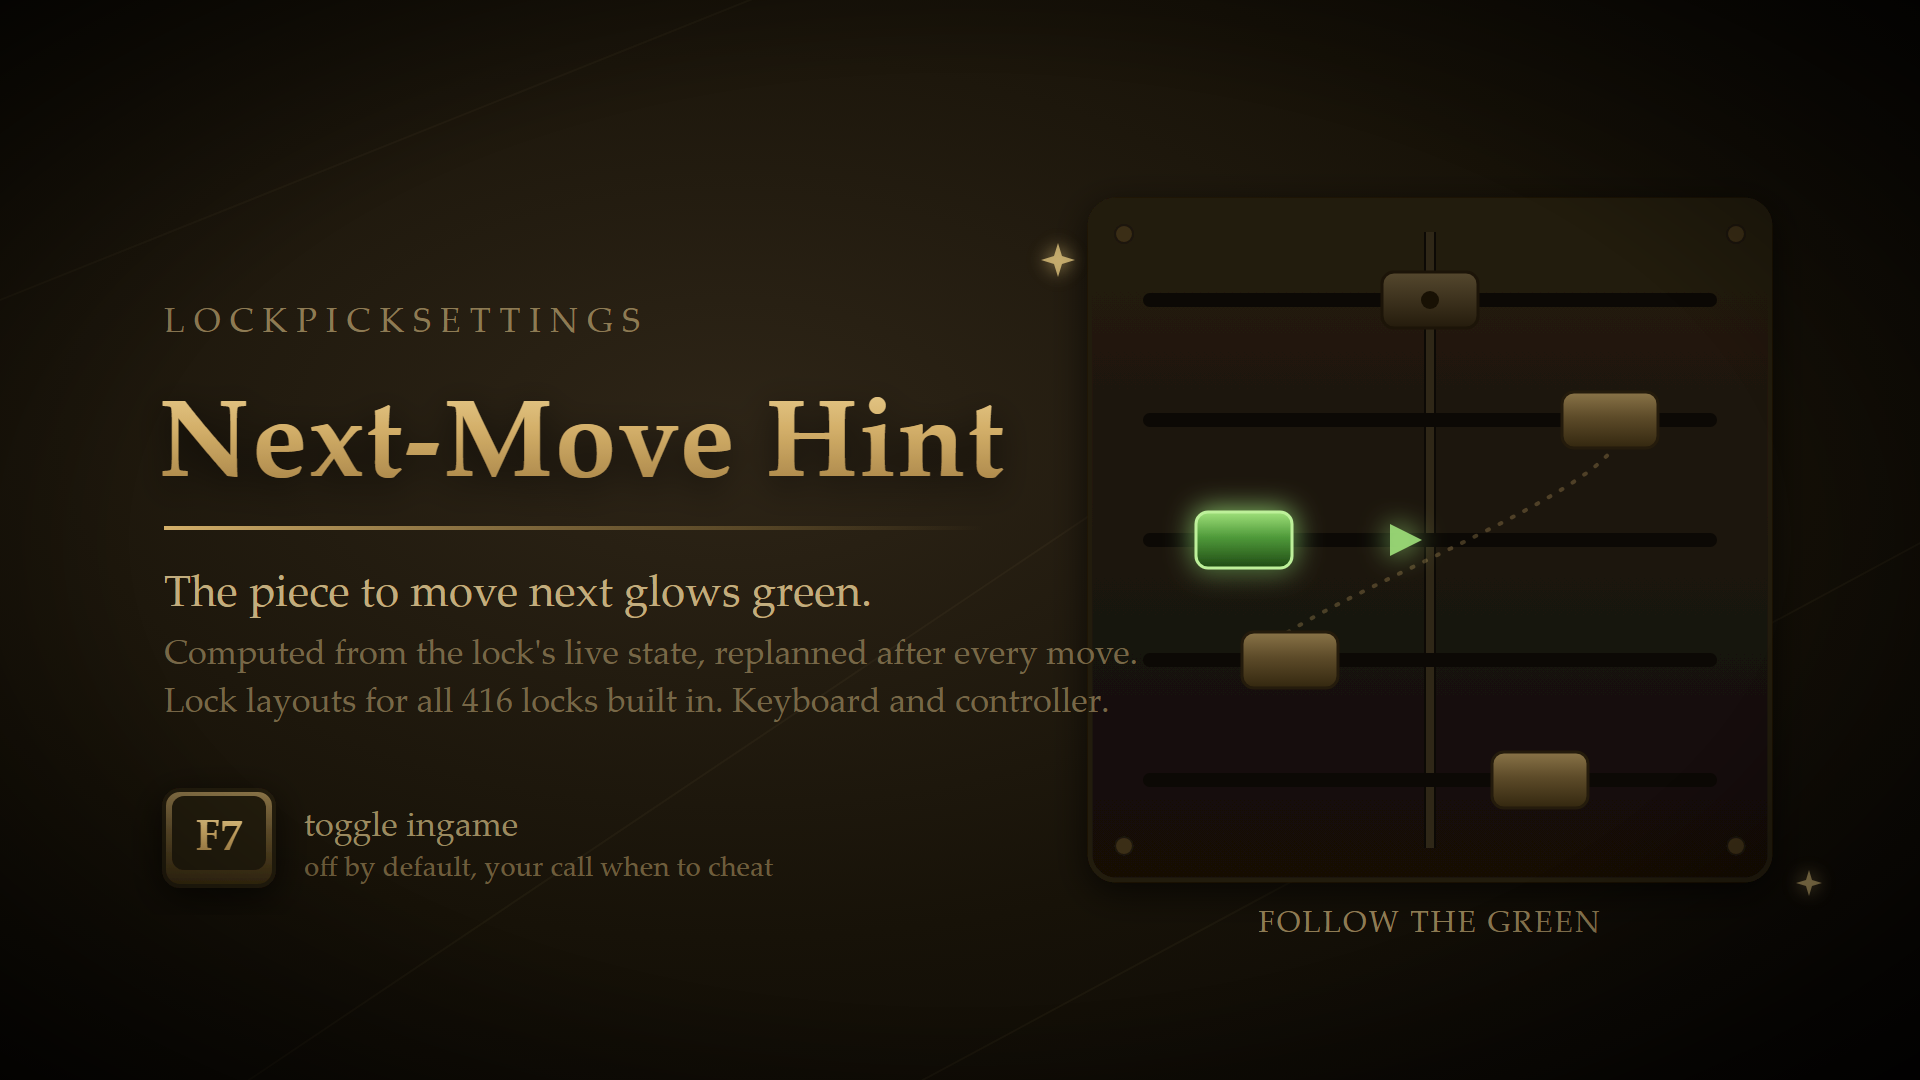
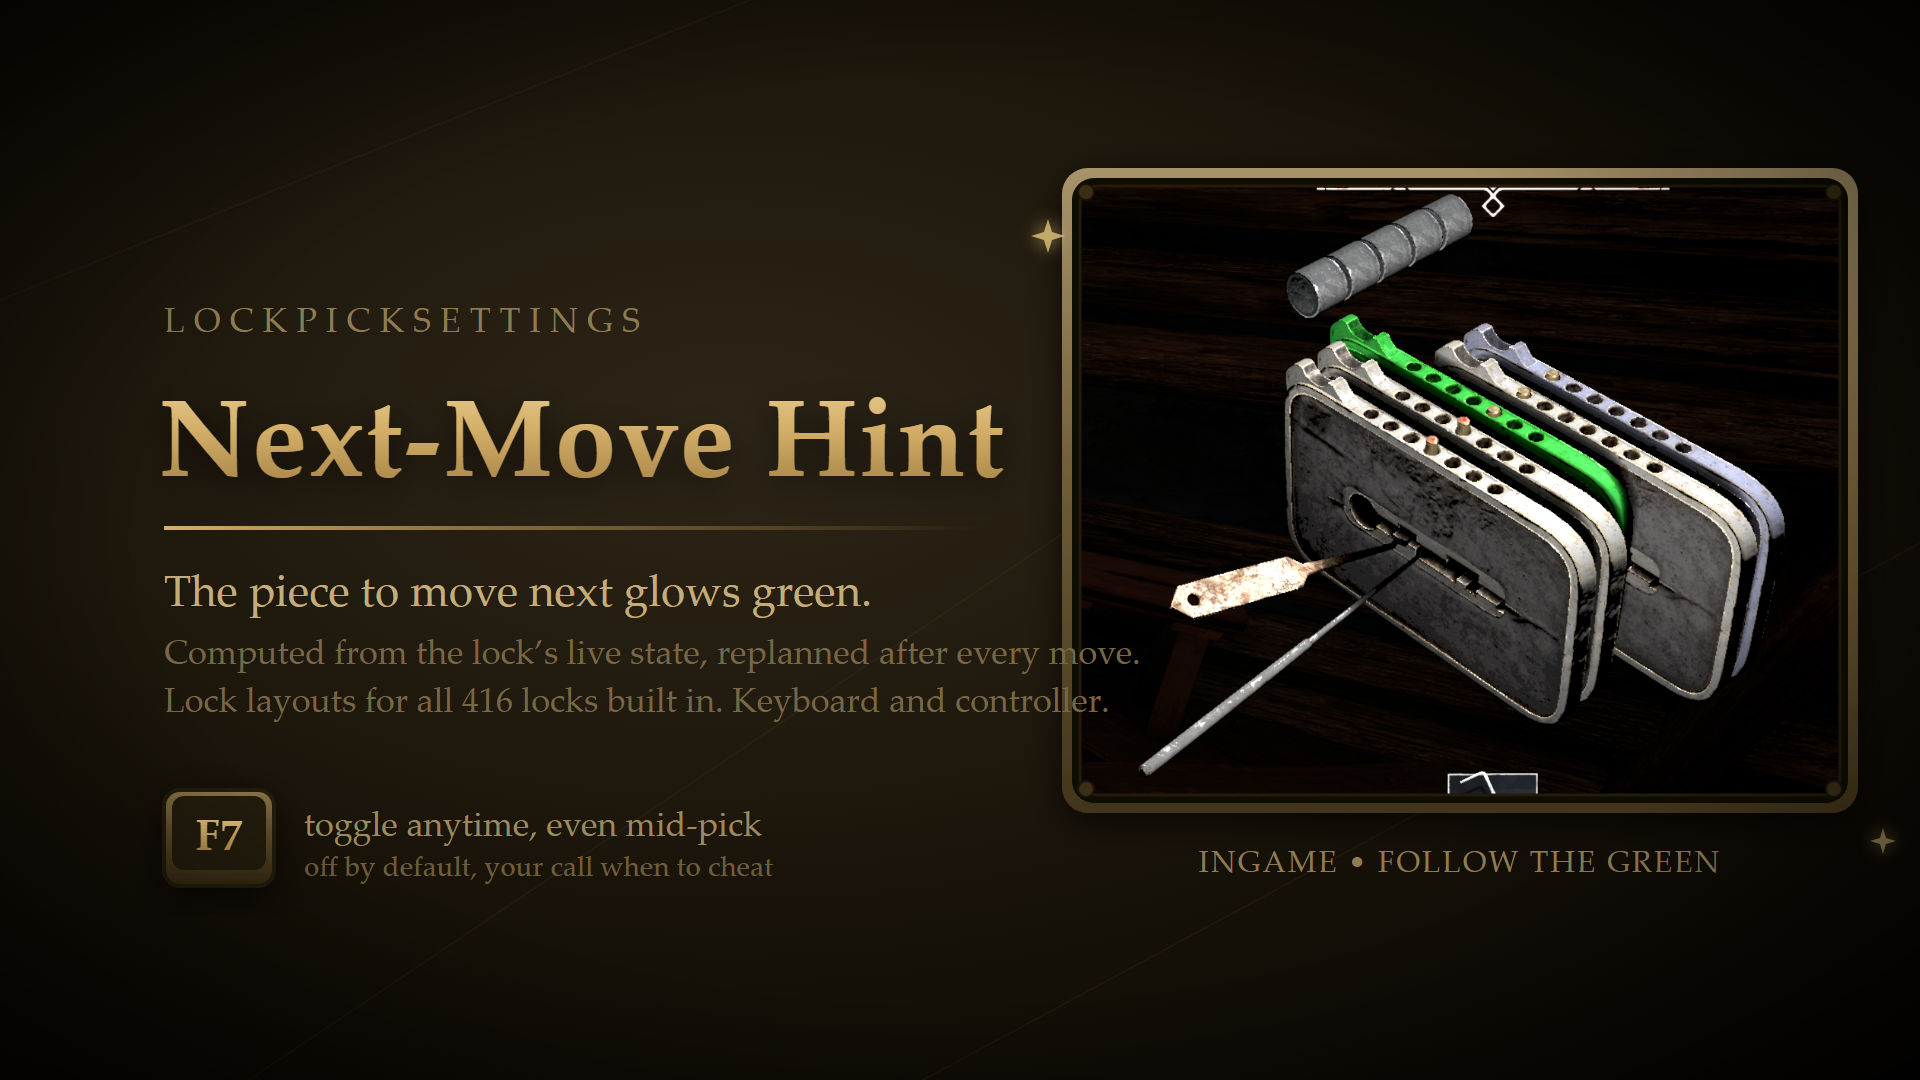
LockpickSettings: release art rework
The hint header now frames a real ingame screenshot of the green
highlight instead of an illustration, and the primary header presents
the mod as a lockpicking toolbox rather than leading with the tries
boost alone.

Changed region(s): [[0.2812, 0.1528, 0.9688, 0.8556], [0.2188, 0.7333, 0.4062, 0.7944]]

diff --git a/G1R/LockpickSettings/release/hint-header.html b/G1R/LockpickSettings/release/hint-header.html
@@ -26,28 +26,16 @@
       <stop offset="45%" stop-color="#5d4b29"/>
       <stop offset="100%" stop-color="#33270f"/>
     </linearGradient>
-    <linearGradient id="plateGreen" x1="0" y1="0" x2="0" y2="1">
-      <stop offset="0%" stop-color="#9fe07a"/>
-      <stop offset="45%" stop-color="#4f9a3a"/>
-      <stop offset="100%" stop-color="#1f4a14"/>
-    </linearGradient>
-    <linearGradient id="plateLocked" x1="0" y1="0" x2="0" y2="1">
-      <stop offset="0%" stop-color="#55482e"/>
-      <stop offset="100%" stop-color="#241b0c"/>
-    </linearGradient>
-    <linearGradient id="panel" x1="0" y1="0" x2="0" y2="1">
-      <stop offset="0%" stop-color="#241c0e"/>
-      <stop offset="100%" stop-color="#120d06"/>
+    <linearGradient id="frame" x1="0" y1="0" x2="0" y2="1">
+      <stop offset="0%" stop-color="#a8946a"/>
+      <stop offset="50%" stop-color="#6e5b35"/>
+      <stop offset="100%" stop-color="#42351c"/>
     </linearGradient>
     <linearGradient id="divider" x1="0" y1="0" x2="1" y2="0">
       <stop offset="0%" stop-color="#d4b06a"/>
       <stop offset="70%" stop-color="#7a6234" stop-opacity="0.6"/>
       <stop offset="100%" stop-color="#7a6234" stop-opacity="0"/>
     </linearGradient>
-    <filter id="glowGreen" x="-80%" y="-80%" width="260%" height="260%">
-      <feGaussianBlur stdDeviation="14" result="b"/>
-      <feMerge><feMergeNode in="b"/><feMergeNode in="SourceGraphic"/></feMerge>
-    </filter>
     <filter id="glow" x="-60%" y="-60%" width="220%" height="220%">
       <feGaussianBlur stdDeviation="9" result="b"/>
       <feMerge><feMergeNode in="b"/><feMergeNode in="SourceGraphic"/></feMerge>
@@ -55,6 +43,9 @@
     <filter id="softShadow" x="-30%" y="-30%" width="160%" height="160%">
       <feDropShadow dx="0" dy="10" stdDeviation="18" flood-color="#000000" flood-opacity="0.65"/>
     </filter>
+    <clipPath id="shotClip">
+      <rect x="1080" y="186" width="760" height="609" rx="18"/>
+    </clipPath>
   </defs>
 
   <!-- background -->
@@ -65,64 +56,26 @@
     <line x1="700" y1="1200" x2="2000" y2="500"/>
   </g>
 
-  <!-- ===================== lock panel, right side ===================== -->
+  <!-- ============ ingame screenshot, framed, right side ============ -->
   <g filter="url(#softShadow)">
-    <rect x="1090" y="200" width="680" height="680" rx="26" fill="url(#panel)"
-          stroke="#241b0c" stroke-width="5"/>
-    <g fill="#3a2e16" stroke="#1c1408" stroke-width="2">
-      <circle cx="1124" cy="234" r="9"/>
-      <circle cx="1736" cy="234" r="9"/>
-      <circle cx="1124" cy="846" r="9"/>
-      <circle cx="1736" cy="846" r="9"/>
-    </g>
+    <rect x="1062" y="168" width="796" height="645" rx="26" fill="url(#frame)"/>
+    <rect x="1072" y="178" width="776" height="625" rx="22" fill="#0c0905"/>
   </g>
-
-  <!-- center column = the open position -->
-  <rect x="1424" y="232" width="12" height="616" fill="#0c0905"/>
-  <rect x="1426" y="232" width="8" height="616" fill="#d4b06a" opacity="0.18"/>
-
-  <!-- rails -->
-  <g stroke="#0c0905" stroke-width="14" stroke-linecap="round">
-    <line x1="1150" y1="300" x2="1710" y2="300"/>
-    <line x1="1150" y1="420" x2="1710" y2="420"/>
-    <line x1="1150" y1="540" x2="1710" y2="540"/>
-    <line x1="1150" y1="660" x2="1710" y2="660"/>
-    <line x1="1150" y1="780" x2="1710" y2="780"/>
-  </g>
-
-  <!-- faint connection chain between row 2 and row 4 plates -->
-  <path d="M 1610 420 C 1680 470 1300 600 1252 660" fill="none"
-        stroke="#d4b06a" stroke-opacity="0.28" stroke-width="4" stroke-dasharray="2 12"
-        stroke-linecap="round"/>
-
-  <!-- plates -->
-  <!-- row 1: locked in at the center (dim, sunk) -->
-  <g>
-    <rect x="1382" y="272" width="96" height="56" rx="12" fill="url(#plateLocked)"
-          stroke="#1c1408" stroke-width="3"/>
-    <circle cx="1430" cy="300" r="9" fill="#181104"/>
-  </g>
-  <!-- row 2: normal plate, right side -->
-  <rect x="1562" y="392" width="96" height="56" rx="12" fill="url(#plate)"
+  <image href="../../LockpickScreenshotHighlight.png" x="1080" y="186"
+         width="760" height="609" clip-path="url(#shotClip)"
+         preserveAspectRatio="xMidYMid slice"/>
+  <rect x="1080" y="186" width="760" height="609" rx="18" fill="none"
         stroke="#241b0c" stroke-width="3"/>
-  <!-- row 3: THE GREEN ONE, left of center, arrow toward center -->
-  <g filter="url(#glowGreen)">
-    <rect x="1196" y="512" width="96" height="56" rx="12" fill="url(#plateGreen)"
-          stroke="#bdf09a" stroke-width="3"/>
+  <!-- rivets on the frame -->
+  <g fill="#3a2e16" stroke="#1c1408" stroke-width="2">
+    <circle cx="1086" cy="192" r="8"/>
+    <circle cx="1834" cy="192" r="8"/>
+    <circle cx="1086" cy="789" r="8"/>
+    <circle cx="1834" cy="789" r="8"/>
   </g>
-  <g fill="#9fe07a" filter="url(#glowGreen)">
-    <path d="M 1316 540 L 1390 540 L 1390 524 L 1422 540 L 1390 556 L 1390 540 Z" opacity="0.9"/>
-  </g>
-  <!-- row 4: normal plate, left side -->
-  <rect x="1242" y="632" width="96" height="56" rx="12" fill="url(#plate)"
-        stroke="#241b0c" stroke-width="3"/>
-  <!-- row 5: normal plate, right of center -->
-  <rect x="1492" y="752" width="96" height="56" rx="12" fill="url(#plate)"
-        stroke="#241b0c" stroke-width="3"/>
-
-  <!-- caption under the panel -->
-  <text x="1430" y="932" font-family="Palatino Linotype, Georgia, serif" font-size="30"
-        fill="#8d7b54" text-anchor="middle" letter-spacing="2">FOLLOW THE GREEN</text>
+  <!-- caption under the frame -->
+  <text x="1460" y="872" font-family="Palatino Linotype, Georgia, serif" font-size="30"
+        fill="#8d7b54" text-anchor="middle" letter-spacing="2">INGAME &#8226; FOLLOW THE GREEN</text>
 
   <!-- ===================== text block, left side ===================== -->
   <g font-family="Palatino Linotype, Georgia, serif">
@@ -131,7 +84,7 @@
           fill="url(#gold)" filter="url(#softShadow)">Next-Move Hint</text>
     <rect x="164" y="526" width="820" height="4" fill="url(#divider)"/>
     <text x="164" y="606" font-size="44" fill="#c2ad7e">The piece to move next glows green.</text>
-    <text x="164" y="664" font-size="34" fill="#776747">Computed from the lock's live state, replanned after every move.</text>
+    <text x="164" y="664" font-size="34" fill="#776747">Computed from the lock&#8217;s live state, replanned after every move.</text>
     <text x="164" y="712" font-size="34" fill="#776747">Lock layouts for all 416 locks built in. Keyboard and controller.</text>
   </g>
 
@@ -144,14 +97,14 @@
           font-weight="bold" fill="url(#gold)" text-anchor="middle">F7</text>
   </g>
   <text x="304" y="836" font-family="Palatino Linotype, Georgia, serif" font-size="34"
-        fill="#9b8a60">toggle ingame</text>
+        fill="#9b8a60">toggle anytime, even mid-pick</text>
   <text x="304" y="876" font-family="Palatino Linotype, Georgia, serif" font-size="28"
         fill="#6d5d3c">off by default, your call when to cheat</text>
 
   <!-- sparks -->
   <g fill="#f2d488" filter="url(#glow)">
-    <path d="M 1054 256 l 4 -13 4 13 13 4 -13 4 -4 13 -4 -13 -13 -4 Z" opacity="0.7"/>
-    <path d="M 1806 880 l 3 -10 3 10 10 3 -10 3 -3 10 -3 -10 -10 -3 Z" opacity="0.55"/>
+    <path d="M 1044 232 l 4 -13 4 13 13 4 -13 4 -4 13 -4 -13 -13 -4 Z" opacity="0.7"/>
+    <path d="M 1880 838 l 3 -10 3 10 10 3 -10 3 -3 10 -3 -10 -10 -3 Z" opacity="0.55"/>
   </g>
 
   <!-- vignette -->

diff --git a/G1R/LockpickSettings/release/header.html b/G1R/LockpickSettings/release/header.html
@@ -95,17 +95,17 @@
     <text x="158" y="556" font-size="128" font-weight="bold" letter-spacing="2"
           fill="url(#gold)" filter="url(#softShadow)">LockpickSettings</text>
     <rect x="164" y="606" width="880" height="4" fill="url(#divider)"/>
-    <text x="164" y="688" font-size="46" fill="#c2ad7e">More tries before your lockpick breaks.</text>
+    <text x="164" y="688" font-size="46" fill="#c2ad7e">Your toolbox for the lockpicking minigame.</text>
     <text x="164" y="748" font-size="34" fill="#776747">Configurable. No game files touched. Safe to add or remove anytime.</text>
   </g>
 
-  <!-- tier strip -->
+  <!-- feature strip -->
   <g font-family="Palatino Linotype, Georgia, serif" font-size="36" letter-spacing="3">
-    <text x="164" y="960" fill="#9b8a60">UNTRAINED <tspan fill="#6d5d3c">2</tspan> <tspan fill="#d4b06a">&#8594; 12</tspan>
+    <text x="164" y="960" fill="#9b8a60">MORE TRIES <tspan fill="#6d5d3c">2/4/6</tspan> <tspan fill="#d4b06a">&#8594; 12/14/16</tspan>
       <tspan fill="#574a2e" dx="26">&#9679;</tspan>
-      <tspan dx="26">TRAINED <tspan fill="#6d5d3c">4</tspan> <tspan fill="#d4b06a">&#8594; 14</tspan></tspan>
+      <tspan dx="26">NEXT-MOVE HINT <tspan fill="#d4b06a">F7</tspan></tspan>
       <tspan fill="#574a2e" dx="26">&#9679;</tspan>
-      <tspan dx="26">MASTER <tspan fill="#6d5d3c">6</tspan> <tspan fill="#d4b06a">&#8594; 16</tspan></tspan>
+      <tspan dx="26">FULLY CONFIGURABLE</tspan>
     </text>
   </g>
 